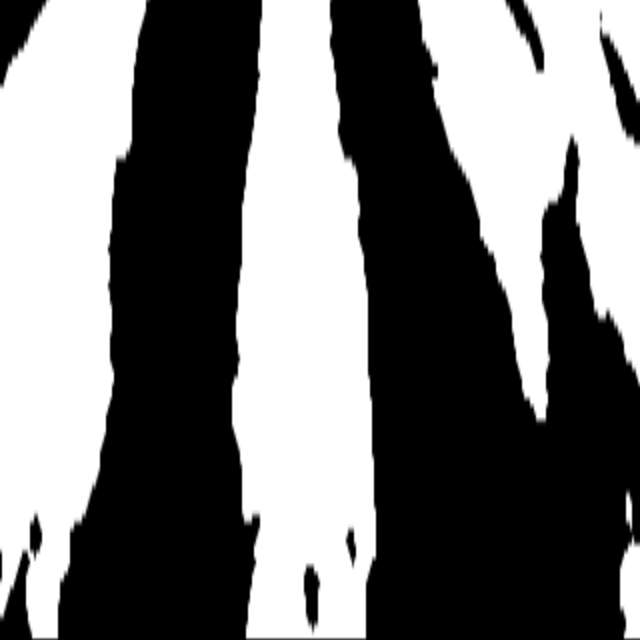
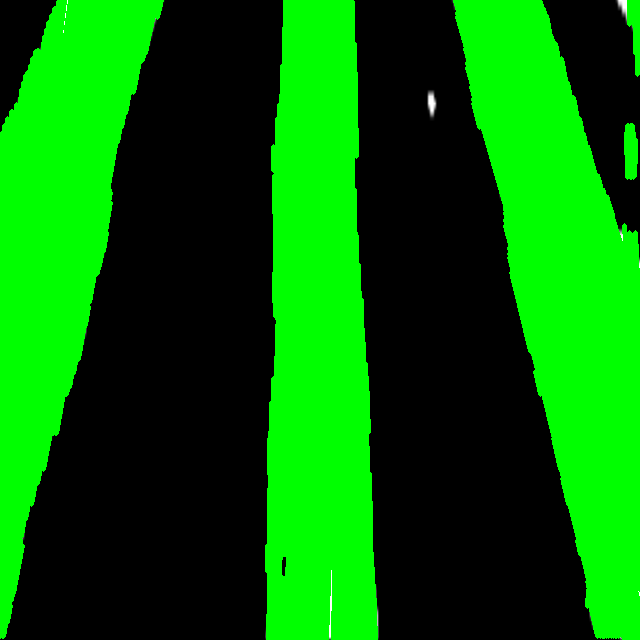
class added for post prediction python script, better organized

diff --git a/lane_fit_post_predict.py b/lane_fit_post_predict.py
@@ -6,127 +6,133 @@ import argparse
 import cv2
 import numpy as np
 from matplotlib import pyplot as plt
+from sensor_msgs.msg import Image
 
-import sliding_window_approach_crop
+import sliding_window_approach
 from geometry_msgs.msg import Pose, PoseArray
 
-def upscaling_warping_parameters(pred_img, class_number, crop_ratio):
-   # Perspective warp
-   rheight, rwidth = pred_img.shape[:2]
-   Roi_g = pred_img[int(crop_ratio*rheight):rheight,0:rwidth]
-   dst_size = Roi_g.shape[:2]
-   # src=np.float32([(0.1,0), (0.8,0), (0,1), (1,1)])
-   #src=np.float32([(0.1,0.5), (0.8,0.5), (0,1), (1,1)])
-   #dst=np.float32([(0,0), (1,0), (0,1), (1,1)])
+class lane_finder_post_predict():
+    '''
+    A class to find fitted center of the lane points along the crop rows given an input RGB image.
+    '''
+    def __init__(self):
+       #### Hyperparameters ####
+       self.image = Image()
+       self.final_img = Image()
+       self.warp_img = Image()
+       self.invwarp_img = Image()
+       self.polyfit_img = Image()
 
-   dst=np.float32([(0,0), (1,0), (0,1), (1,1)])
-   #src=np.float32([(0.2,0.5), (0.8,0.5), (0.2,0.8), (0.8,0.8)])
-   #src=np.float32([(0,0.4), (1,0.4), (0,0.8), (1,0.8)])
-   src=np.float32([(0,0.5), (1,0.5), (0,1), (1,1)])
+       self.class_number = 2 # Extract Interesting Class (2 - Lanes in this case) from predictions
+       self.crop_ratio = 0.2 # Ratio to crop the background parts in the image from top
 
-   return Roi_g, src, dst, dst_size
+       #src=np.float32([(0.1,0), (0.8,0), (0,1), (1,1)])
+       #src=np.float32([(0.1,0.5), (0.8,0.5), (0,1), (1,1)])
+       #src=np.float32([(0.2,0.5), (0.8,0.5), (0.2,0.8), (0.8,0.8)])
+       #src=np.float32([(0,0.4), (1,0.4), (0,0.8), (1,0.8)])
+       self.src=np.float32([(0,0.5), (1,0.5), (0,1), (1,1)])
 
-def lane_fit_on_prediction(Roi_img, src, dst, dst_size):
+       self.dst=np.float32([(0,0), (1,0), (0,1), (1,1)])
 
-   warped_img, M  = sliding_window_approach_crop.perspective_warp(Roi_img, dst_size, src, dst)
+       self.margin_l=35
+       self.margin_r=35
+       self.nwindows=12
 
-   margin=35
-   nwindows=12
+       self.centerLine = []
+       #self.midPoints = PoseArray()
+       self.output_file = None
 
-   # InitialPoints Estimation using K-Means clustering
-   margin, modifiedCenters = sliding_window_approach_crop.initialPoints(warped_img, margin) #margin_1
+    def lane_fit_on_prediction(self, Roi_img, dst_size):
 
-   # Sliding Window Search
-   out_img, curves, lanes, ploty = sliding_window_approach_crop.sliding_window(warped_img, modifiedCenters, nwindows, margin) #, margin_1
-   return warped_img, out_img, curves, lanes, ploty, modifiedCenters
+       self.warp_img, M  = sliding_window_approach.perspective_warp(Roi_img, dst_size, self.src, self.dst) # Perspective warp
+       #cv2.imwrite(self.output_file, self.warp_img)
 
-def visualize_lane_fit(input_image, out_img, curves, lanes, ploty, modifiedCenters, src, dst, dst_size, crop_ratio):
-   # Visualize the fitted polygonals (One on each lane and on average curve)
-   out_img, midLane_i = sliding_window_approach_crop.visualization_polyfit(out_img, curves, lanes, ploty, modifiedCenters)
+       # InitialPoints Estimation using K-Means clustering
+       self.margin_l, self.margin_r, modifiedCenters = sliding_window_approach.initialPoints(self.warp_img, self.margin_l, self.margin_r)
 
-   # Inverse Perspective warp
-   invwarp, Minv = sliding_window_approach_crop.inv_perspective_warp(out_img, (dst_size[1], dst_size[0]), dst, src)
+       # Sliding Window Search
+       self.polyfit_img, curves, lanes, ploty = sliding_window_approach.sliding_window(self.warp_img, modifiedCenters, self.nwindows, self.margin_l, self.margin_r) #
+       return curves, lanes, ploty, modifiedCenters
 
-   midPoints = []
-   #midPoints = PoseArray()
-   # for i in midLane_i:
-   #   point_wp = np.array([i[0],i[1],1])
-   #   midLane_io = np.matmul(Minv, point_wp) # inverse-M*warp_pt
-   #   midLane_n = np.array([midLane_io[0]/midLane_io[2],midLane_io[1]/midLane_io[2]]) # divide by Z point
-   #   midLane_n = midLane_n.astype(int)
-   #   midPoints.append(midLane_n)
-     #midPoints.poses.append(Pose((midLane_n[0],midLane_n[1],0),(0,0,0,1)))
+    def visualize_lane_fit(self, curves, lanes, ploty, modifiedCenters, dst_size):
+       # Visualize the fitted polygonals (One on each lane and on average curve)
+       self.polyfit_img, midLane_i = sliding_window_approach.visualization_polyfit(self.polyfit_img, curves, lanes, ploty, modifiedCenters)
 
-   # Combine the result with the original image
-   final_img = cv2.cvtColor(input_image,cv2.COLOR_GRAY2RGB)
-   #final_img = input_image.copy()
-   rheight, rwidth = final_img.shape[:2]
-   final_img[int(rheight*crop_ratio):rheight,0:rwidth] = cv2.addWeighted(final_img[int(rheight*crop_ratio):int(rheight),0:rwidth],
-                                                           0.8, invwarp, 1.0, 0)
-   return out_img, midPoints, invwarp, final_img
+       # Inverse Perspective warp
+       self.invwarp_img, Minv = sliding_window_approach.inv_perspective_warp(self.polyfit_img, (dst_size[1], dst_size[0]), self.dst, self.src)
 
-def run_lane_fit(pred_inp_image, class_number = 2,  crop_ratio = 0.2):
-   # Extract Interesting Class (2 - Lanes in this case) from predictions
-   # Ratio to crop the background parts in the image from top
+       # for i in midLane_i:
+       #   point_wp = np.array([i[0],i[1],1])
+       #   midLane_io = np.matmul(Minv, point_wp) # inverse-M*warp_pt
+       #   midLane_n = np.array([midLane_io[0]/midLane_io[2],midLane_io[1]/midLane_io[2]]) # divide by Z point
+       #   midLane_n = midLane_n.astype(int)
+       #   midPoints.append(midLane_n)
+         #midPoints.poses.append(Pose((midLane_n[0],midLane_n[1],0),(0,0,0,1)))
 
-   # Setting the parameters for upscaling and warping-unwarping
-   Roi_img, src, dst, dst_size = upscaling_warping_parameters(pred_inp_image, class_number, crop_ratio)
+       # Combine the result with the original image
+       self.final_img = cv2.cvtColor(self.image,cv2.COLOR_GRAY2RGB)
+       #final_img = input_image.copy()
 
-   # Sliding Window Approach on Lanes Class from segmentation Array and fit the poly curves
-   warp_img, out_img, curves, lanes, ploty, modifiedCenters = lane_fit_on_prediction(Roi_img, src, dst, dst_size)
+       rheight, rwidth = self.final_img.shape[:2]
+       self.final_img[int(rheight*self.crop_ratio):rheight,0:rwidth] = cv2.addWeighted(self.final_img[int(rheight*self.crop_ratio):int(rheight),0:rwidth],
+                                                               0.8, self.invwarp_img, 1.0, 0)
 
-   # Overlay the inverse warped image on input image
-   polyfit_img, centerLine, invwarp, final_img = visualize_lane_fit(pred_inp_image, out_img, curves, lanes, ploty, modifiedCenters, src, dst, dst_size, crop_ratio)
-   return polyfit_img, final_img, centerLine
+    def run_lane_fit(self):
 
-def visualization(vis_img, lane_fit = None, evaluation = None, n_classes=None, visualize = None, display=False, output_file=None):
+       # Setting the parameters for upscaling and warping-unwarping
+       rheight, rwidth = self.image.shape[:2]
+       Roi_img = self.image[int(self.crop_ratio*rheight):rheight,0:rwidth]
+       dst_size = Roi_img.shape[:2]
+       #print self.image.shape[:2], dst_size
+       # Sliding Window Approach on Lanes Class from segmentation Array and fit the poly curves
+       curves, lanes, ploty, modifiedCenters = self.lane_fit_on_prediction(Roi_img, dst_size)
 
-    if display:
-        cv2.imshow('Prediction', vis_img)
-    if not output_file is None:
-        cv2.imwrite(output_file, vis_img )
-    return vis_img
+       # Overlay the inverse warped image on input image
+       self.visualize_lane_fit(curves, lanes, ploty, modifiedCenters, dst_size)
 
-def lane_fit_on_predicted_image(inp = None, lane_fit = False, output_file = None, display=False): #visualize = None
+    def visualization(self, display=False):
+        if display:
+            cv2.imshow('Prediction', self.final_img)
+        if not self.output_file is None:
+            cv2.imwrite(self.output_file, self.final_img )
 
-    if lane_fit:
-        class_number = 1 # Extract Interesting Class (2 - Lanes in this case) from predictions
-        crop_ratio = 0.2 # Ratio to crop the background parts in the image from top
-        warp_img, final_img, fit = run_lane_fit(inp, class_number, crop_ratio)
-        #cv2.imwrite(output_file, warp_img )
+    def lane_fit_on_predicted_image(self, lane_fit = False, display=False): #visualize = None
+
+        if lane_fit:
+            self.run_lane_fit()
+        else:
+            self.final_img = None
 
         #visualize: None, "all" or one of, "segmentation", "lane_fit"
-        vis_img = visualization(final_img, lane_fit = None, evaluation = None, n_classes=3, visualize = "segmentation", display=False, output_file=output_file)
+        self.visualization(display=False)
 
-    else:
-        fit = None
-        out_img = None
-        vis_img = None
-
-    #return vis_img, out_img, fit
-
-def main():
+if __name__ == '__main__':
     parser = argparse.ArgumentParser(description="Example: Run prediction on an image folder. Example usage: python lane_predict.py --model_prefix=models/resnet_3class --epoch=25 --input_folder=Frogn_Dataset/images_prepped_test --output_folder=.")
     parser.add_argument("--input_folder",default = '', help = "(Relative) path to input image file")
     parser.add_argument("--output_folder", default = '', help = "(Relative) path to output image file. If empty, image is not written.")
     parser.add_argument("--display",default = False, help = "Whether to display video on screen (can be slow)")
-
     args = parser.parse_args()
 
     print('Output_folder',args.output_folder)
     im_files = glob.glob(os.path.join(args.input_folder,'*.png'))
     print(os.path.join(args.input_folder+'*.png'))
+
+    lfp = lane_finder_post_predict()
+
     for pred_im in im_files:
         if args.output_folder:
             base = os.path.basename(pred_im)
-            output_file = os.path.join(args.output_folder,os.path.splitext(base)[0][0:11])+".png" #os.path.splitext(base)[0]
-            print(output_file)
+            lfp.output_file = os.path.join(args.output_folder,os.path.splitext(base)[0][0:11])+".jpg" #os.path.splitext(base)[0]
+            print(lfp.output_file)
         else:
             output_file = None
-        seg_img = cv2.imread(pred_im, 0)
-        lane_fit_on_predicted_image(inp = seg_img, lane_fit = True, output_file = output_file, display=True) #visualize = "segmentation"
-        #vis_img, out_img, fit =
-    cv2.destroyAllWindows()
+        lfp.image = cv2.imread(pred_im, 0)
 
-if __name__ == '__main__':
-    main()
+        #blur_img = cv2.blur(seg_img,(10,10))
+        #gausblur_img = cv2.GaussianBlur(seg_img, (5,5),0)
+        lfp.image = cv2.medianBlur(lfp.image, 15)
+        #bilFilter = cv2.bilateralFilter(img,9,75,75)
+
+        lfp.lane_fit_on_predicted_image(lane_fit = True, display=True) #visualize = "segmentation"
+
+    cv2.destroyAllWindows()

diff --git a/sliding_window_approach.py b/sliding_window_approach.py
@@ -36,7 +36,7 @@ def inv_perspective_warp(img, dst_size, src, dst):
     warped = cv2.warpPerspective(img, M, dst_size)
     return warped, M
 
-def initialPoints(warped_img, margin):
+def initialPoints(warped_img, margin_l, margin_r):
 
      global prev_modifiedCenters, base_size, clusters
 
@@ -48,20 +48,21 @@ def initialPoints(warped_img, margin):
      whitePixels = np.argwhere(base == 255)
 
      #cluster_1 = []
-     cluster_1 = np.zeros([base.shape[0],base.shape[1],1],dtype=np.uint8)
-     cluster_2 = np.zeros([base.shape[0],base.shape[1],1],dtype=np.uint8)
+     #cluster_1 = np.zeros([base.shape[0],base.shape[1],1],dtype=np.uint8)
+     #cluster_2 = np.zeros([base.shape[0],base.shape[1],1],dtype=np.uint8)
+     #print base_size, margin_l, margin_r
 
      # Attempt to run kmeans (the kmeans parameters were not chosen with any sort of hard/soft optimization)
      try:
          kmeans = KMeans(n_clusters=clusters, random_state=0, n_init=3, max_iter=150).fit(whitePixels)
-         for k_i in range(0, len(whitePixels)):
-             if kmeans.labels_[k_i]==0:
-                cluster_1[whitePixels[k_i][0]][whitePixels[k_i][1]] = 255
-             else:
-                cluster_2[whitePixels[k_i][0]][whitePixels[k_i][1]] = 255
-
-         im_1, contours_1, hierarchy_1 = cv2.findContours(cluster_1, cv2.RETR_TREE, cv2.CHAIN_APPROX_SIMPLE)
-         im_2, contours_2, hierarchy_2 = cv2.findContours(cluster_2, cv2.RETR_TREE, cv2.CHAIN_APPROX_SIMPLE)
+         # for k_i in range(0, len(whitePixels)):
+         #     if kmeans.labels_[k_i]==0:
+         #        cluster_1[whitePixels[k_i][0]][whitePixels[k_i][1]] = 255
+         #     else:
+         #        cluster_2[whitePixels[k_i][0]][whitePixels[k_i][1]] = 255
+         #
+         # im_1, contours_1, hierarchy_1 = cv2.findContours(cluster_1, cv2.RETR_TREE, cv2.CHAIN_APPROX_SIMPLE)
+         # im_2, contours_2, hierarchy_2 = cv2.findContours(cluster_2, cv2.RETR_TREE, cv2.CHAIN_APPROX_SIMPLE)
 
          # print contours, kmeans.cluster_centers_[0] #len(whitePixels), len(kmeans.labels_), len(cluster_1), len(cluster_2), len(cluster_1)+len(cluster_2) #kmeans.cluster_centers_,
 
@@ -90,21 +91,21 @@ def initialPoints(warped_img, margin):
               return None
           else:
               base_size  = base_size  * 1.5
-              return initialPoints(warped_img, margin)
+              return initialPoints(warped_img, margin_l, margin_r)
 
      # conver centers to integer values so can be used as pixel coords
      centers = [list(imap(int, center)) for center in kmeans.cluster_centers_]
 
-     d_0 = []
-     d_1 = []
-     for c_i in range(0, len(contours_1[0])):
-       d_0.append(contours_1[0][c_i][0][0]-centers[0][1])
-     for c_j in range(0, len(contours_2[0])):
-       d_1.append(contours_2[0][c_j][0][0]-centers[1][1])
-     margin = abs(max(d_0))
-     margin_1 = abs(max(d_1))
+     # d_0 = []
+     # d_1 = []
+     # for c_i in range(0, len(contours_1[0])):
+     #   d_0.append(contours_1[0][c_i][0][0]-centers[0][1])
+     # for c_j in range(0, len(contours_2[0])):
+     #   d_1.append(contours_2[0][c_j][0][0]-centers[1][1])
+     #margin = abs(max(d_0))
+     #margin_1 = abs(max(d_1))
      #margin_r.astype(int)
-     print margin, margin_1
+
 
      #print  contours_2[0][c_j][0][0], centers[1][1]
 
@@ -121,15 +122,15 @@ def initialPoints(warped_img, margin):
      # map the centers in terms of the image space
      modifiedCenters = [increaseY(center) for center in centers]
 
-     if abs(modifiedCenters[0][1]-modifiedCenters[1][1])<50:
-         #print modifiedCenters, prev_modifiedCenters
-         modifiedCenters = prev_modifiedCenters
-         return margin, margin_1, modifiedCenters
+     # if abs(modifiedCenters[0][1]-modifiedCenters[1][1])<50:
+     #     #print modifiedCenters, prev_modifiedCenters
+     #     modifiedCenters = prev_modifiedCenters
+     #     return margin, margin_1, modifiedCenters
 
-     prev_modifiedCenters = modifiedCenters
+     # prev_modifiedCenters = modifiedCenters
 
      # return a list of tuples for centers
-     return margin, margin_1, modifiedCenters
+     return margin_l, margin_r, modifiedCenters
 
 def sliding_window(img, modifiedCenters, nwindows=12, margin=35, margin_1=35, minpix=1, draw_windows=True):
     global prev_modifiedCenters, base_size, clusters

diff --git a/sliding_window_approach_crop.py b/sliding_window_approach_crop.py
@@ -216,12 +216,12 @@ def sliding_window(img, modifiedCenters, nwindows=12, margin=35, margin_1=35, mi
     # righty = nonzeroy[right_lane_inds]
 
     # Fit a second order polynomial to
-    left_fit = np.polyfit(lefty, leftx, 2)
+    left_fit = np.polyfit(lefty, leftx, 1)
     # right_fit = np.polyfit(righty, rightx, 2)
 
     left_a.append(left_fit[0])
     left_b.append(left_fit[1])
-    left_c.append(left_fit[2])
+    #left_c.append(left_fit[2])
 
     # right_a.append(right_fit[0])
     # right_b.append(right_fit[1])
@@ -229,18 +229,19 @@ def sliding_window(img, modifiedCenters, nwindows=12, margin=35, margin_1=35, mi
 
     left_fit_[0] = np.mean(left_a[-10:])
     left_fit_[1] = np.mean(left_b[-10:])
-    left_fit_[2] = np.mean(left_c[-10:])
+    #left_fit_[2] = np.mean(left_c[-10:])
 
     # right_fit_[0] = np.mean(right_a[-10:])
     # right_fit_[1] = np.mean(right_b[-10:])
     # right_fit_[2] = np.mean(right_c[-10:])
 
-    # Generate x and y values for plotting
+    # Generate x and y values for plotting#
     ploty = np.linspace(0, img.shape[0]-1, img.shape[0])
-    left_fitx = left_fit_[0]*ploty**2 + left_fit_[1]*ploty + left_fit_[2]
+    #left_fitx = left_fit_[0]*ploty**2 + left_fit_[1]*ploty + left_fit_[2]
+    left_fitx = left_fit_[0]*ploty + left_fit_[1] #+ left_fit_[2]
     # right_fitx = right_fit_[0]*ploty**2 + right_fit_[1]*ploty + right_fit_[2]
 
-    out_img[nonzeroy[left_lane_inds], nonzerox[left_lane_inds]] = [0, 100, 255] #[255, 0, 100]
+    out_img[nonzeroy[left_lane_inds], nonzerox[left_lane_inds]] = [255, 0, 255] #[255, 0, 100]
     # out_img[nonzeroy[right_lane_inds], nonzerox[right_lane_inds]] = [0, 100, 255]
 
     return out_img, (left_fitx), (left_fit_), ploty #, right_fitx #, right_fit_

diff --git a/optimal_warped_frame.py b/optimal_warped_frame.py
@@ -12,7 +12,7 @@ import sliding_window_approach
 #     borderType=cv2.BORDER_REFLECT) for x in (img, img*img))
 #   return wsqrmean - wmean*wmean
 
-img_file = expanduser("~/Third_Paper/Datasets/Frogn_Fields/Frogn_004_crop_predictions/frogn_40000_crop_pred_img.png")
+img_file = expanduser("~/Third_Paper/Datasets/Frogn_Fields/Frogn_004_crop_predictions/frogn_40270_crop_pred_img.png")
 # dummy_folder/lane_predictions/frogn_10000_lane_pred.png")
 img = cv2.imread(img_file, 0)
 
@@ -24,6 +24,15 @@ dst=np.float32([(0,0), (1,0), (0,1), (1,1)])
 src=np.float32([(0,0.5), (1,0.5), (0,1), (1,1)])
 
 warped_img, M  = sliding_window_approach.perspective_warp(img, dst_size, src, dst)
+
+edges = cv2.Canny(warped_img,50,150,apertureSize = 3)
+minLineLength = 100
+maxLineGap = 10
+lines = cv2.HoughLinesP(warped_img,1,np.pi/180,100,minLineLength,maxLineGap)
+warped_img_c = cv2.cvtColor(warped_img,cv2.COLOR_GRAY2RGB)
+for line in lines:
+    x1, y1, x2, y2 = line[0]
+    cv2.line(warped_img_c,(x1,y1),(x2,y2),(0,255,0),3)
 #print M
 #cv2.imwrite('frogn_10000_lane_sw_warp_img.png', warped_img)
 # cv2.imshow(title_window, warped_img)
@@ -59,7 +68,7 @@ warped_img, M  = sliding_window_approach.perspective_warp(img, dst_size, src, ds
 # angle_r = ang_arr[var_arr.index(max(var_arr))]
 # rotated_r = imutils.rotate(warped_img, angle_r)
 #cv2.imwrite(str(angle_r)+'.png', warped_img)
-cv2.imwrite('warped_img.png', warped_img)
+cv2.imwrite('warped_img.png', warped_img_c)
 
 #
 # # plt.plot(img_col_sum)
